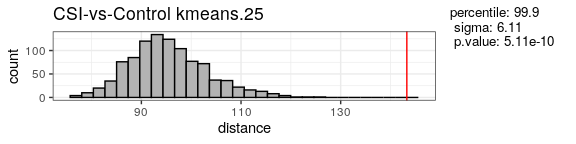
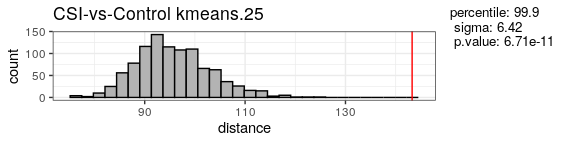
low sample 2D embedding instructions and warnings

diff --git a/README.md b/README.md
@@ -1,23 +1,3 @@
-- [Analysis of unsupervised clustering results](#analysis-of-unsupervised-clustering-results)
-  * [building the data object](#building-the-data-object)
-    + [Loading the data](#loading-the-data)
-      - [Loading from multiple CSV files](#loading-from-multiple-csv-files)
-      - [Loading from TrackingData (DLC Analyzer)](#loading-from-trackingdata--dlc-analyzer-)
-    + [Exploring the data structure of USData](#exploring-the-data-structure-of-usdata)
-    + [Adding more data to an existing USData object](#adding-more-data-to-an-existing-usdata-object)
-      - [Adding new labels to existing files](#adding-new-labels-to-existing-files)
-      - [Adding new files](#adding-new-files)
-    + [Removing files or labels from the dataset](#removing-files-or-labels-from-the-dataset)
-  * [Processing the data and runing basic analyses](#processing-the-data-and-runing-basic-analyses)
-    + [Smoothing and creating a basic report](#smoothing-and-creating-a-basic-report)
-    + [Calculating Transitionmatrices and ploting behavior flow](#calculating-transitionmatrices-and-ploting-behavior-flow)
-    + [Mapping different label groups to each other](#mapping-different-label-groups-to-each-other)
-  * [Grouped analyses](#grouped-analyses)
-    + [Adding metadata](#adding-metadata)
-    + [Statistical two group analysis](#statistical-two-group-analysis)
-    + [2D embedding of transition data](#2d-embedding-of-transition-data)
-    + [2D embedding of data from multiple datasets](#2d-embedding-of-data-from-multiple-datasets)
-
 Analysis of unsupervised clustering results
 ===========================================
 
@@ -760,10 +740,10 @@ str(US$Results$`CSI-vs-Control`)
     ##  $ TransitionStats:List of 2
     ##   ..$ rear.classifier:List of 6
     ##   .. ..$ distance   : num 5.92
-    ##   .. ..$ bootstraps : num [1:1000] 16 17.8 25.7 10.3 14.9 ...
-    ##   .. ..$ percentile : num 17.9
-    ##   .. ..$ sigma      : num -0.963
-    ##   .. ..$ p.value    : num 0.832
+    ##   .. ..$ bootstraps : num [1:1000] 27.28 2.55 7.35 4.12 12.07 ...
+    ##   .. ..$ percentile : num 17.5
+    ##   .. ..$ sigma      : num -0.948
+    ##   .. ..$ p.value    : num 0.828
     ##   .. ..$ transitions:'data.frame':   9 obs. of  7 variables:
     ##   .. .. ..$ from   : chr [1:9] "Supported" "Unsupported" "None" "Unsupported" ...
     ##   .. .. ..$ to     : chr [1:9] "Unsupported" "Supported" "Unsupported" "None" ...
@@ -774,10 +754,10 @@ str(US$Results$`CSI-vs-Control`)
     ##   .. .. ..$ FDR    : num [1:9] 0.44 0.44 1 1 1 ...
     ##   ..$ kmeans.25      :List of 6
     ##   .. ..$ distance   : num 143
-    ##   .. ..$ bootstraps : num [1:1000] 99.4 85.4 99.5 90 89.5 ...
+    ##   .. ..$ bootstraps : num [1:1000] 96.1 94.5 108 93.4 110 ...
     ##   .. ..$ percentile : num 99.9
-    ##   .. ..$ sigma      : num 6.45
-    ##   .. ..$ p.value    : num 5.71e-11
+    ##   .. ..$ sigma      : num 6.42
+    ##   .. ..$ p.value    : num 6.71e-11
     ##   .. ..$ transitions:'data.frame':   625 obs. of  7 variables:
     ##   .. .. ..$ from   : chr [1:625] "16" "14" "3" "3" ...
     ##   .. .. ..$ to     : chr [1:625] "14" "3" "21" "25" ...
@@ -840,7 +820,7 @@ the two groups. Results can be visualized using:
 PlotTransitionsStats(US, labels = "kmeans.25")
 ```
 
-![](README_files/figure-markdown_github/unnamed-chunk-40-1.png)
+![](README_files/figure-markdown_github/unnamed-chunk-39-1.png)
 
 ### 2D embedding of transition data
 
@@ -859,7 +839,37 @@ Plot2DEmbedding(US, transitionmatrices = "kmeans.25", colorby = "Condition", col
 
     ## done.
 
+![](README_files/figure-markdown_github/unnamed-chunk-40-1.png)
+
+*Tip: Default the function will perform a UMAP embedding. To perform a
+t-sne embedding instead we can use the function with the parameter:*
+`method = "tsne"` *This will automatically perform a t-sne embedding for
+which we can also change the perplexity manually (see below)*
+
+2D embedding works better the more distinct samples we present. Keep in
+mind that embedding with very low numbers will not yield good results,
+and at some point the algorithms will refuse to work with low number
+sizes. For tsne we can work with lower samples by specifying the
+´perplex´ to be small:
+
+``` r
+US_small <- SplitUSData(US,include = US$file_names[1:10])
+Plot2DEmbedding(US_small, transitionmatrices = "kmeans.25", colorby = "Condition", color = c("grey","red"), method = "tsne", perplex = 3)
+```
+
+    ## [1] "including transitionmatrix: kmeans.25"
+
+    ## ***t-SNE wrapper function***
+
+    ## running...
+
+    ## done.
+
 ![](README_files/figure-markdown_github/unnamed-chunk-41-1.png)
+
+while this embedding will work with lower numbers as you may note that
+the quality is getting much worse. It is highly recommended to use
+sample sizes of \~ \> 20 if possible for a decent 2D embedding
 
 ### 2D embedding of data from multiple datasets
 
